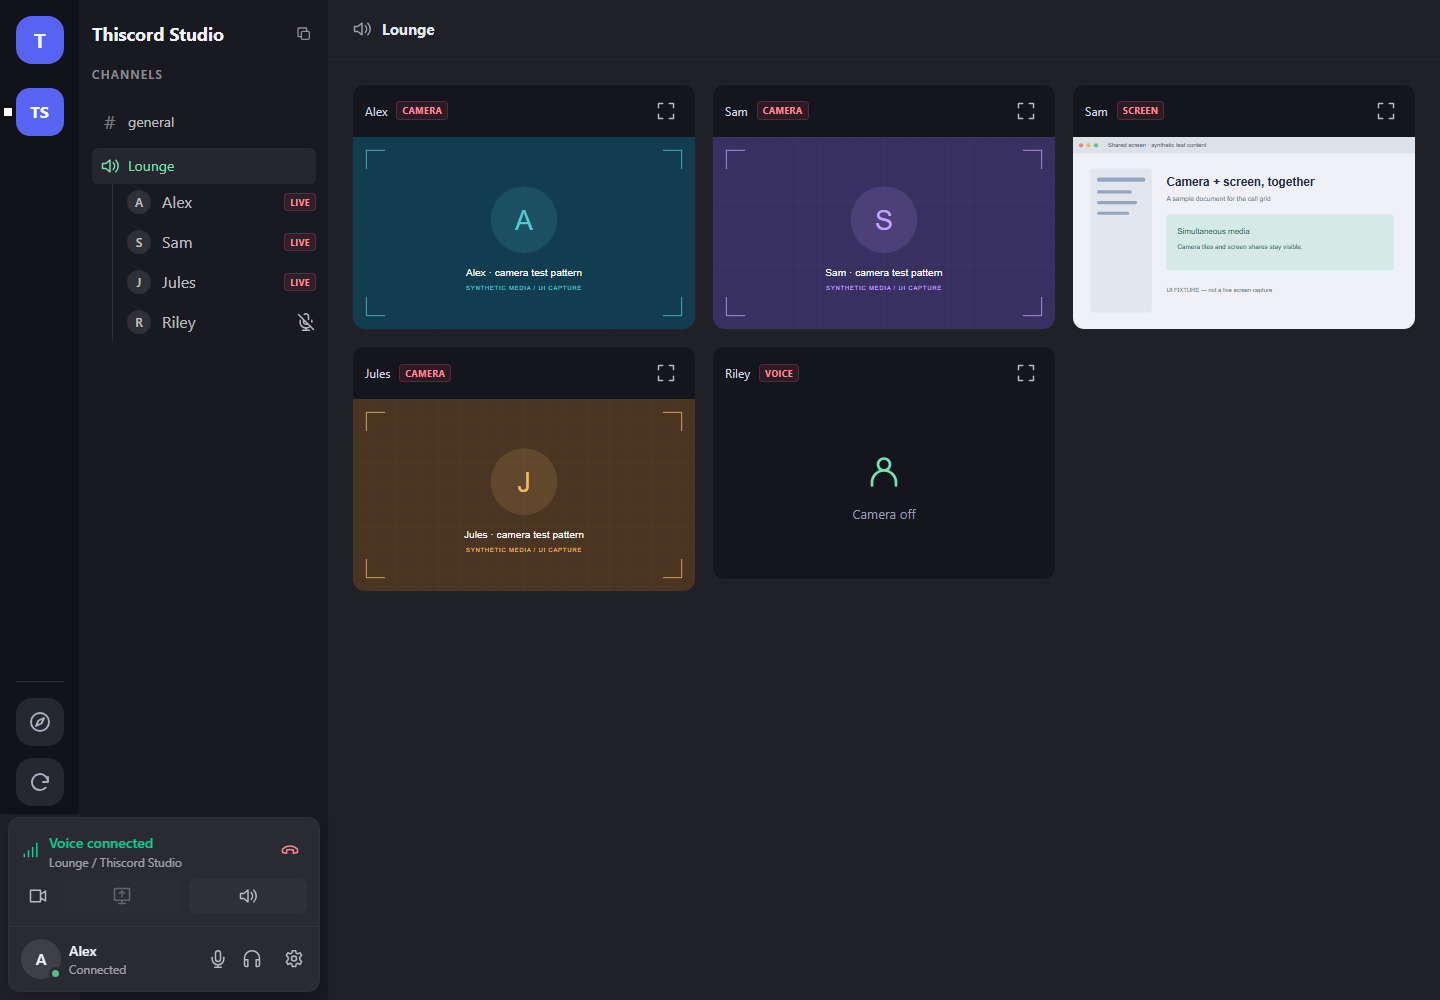
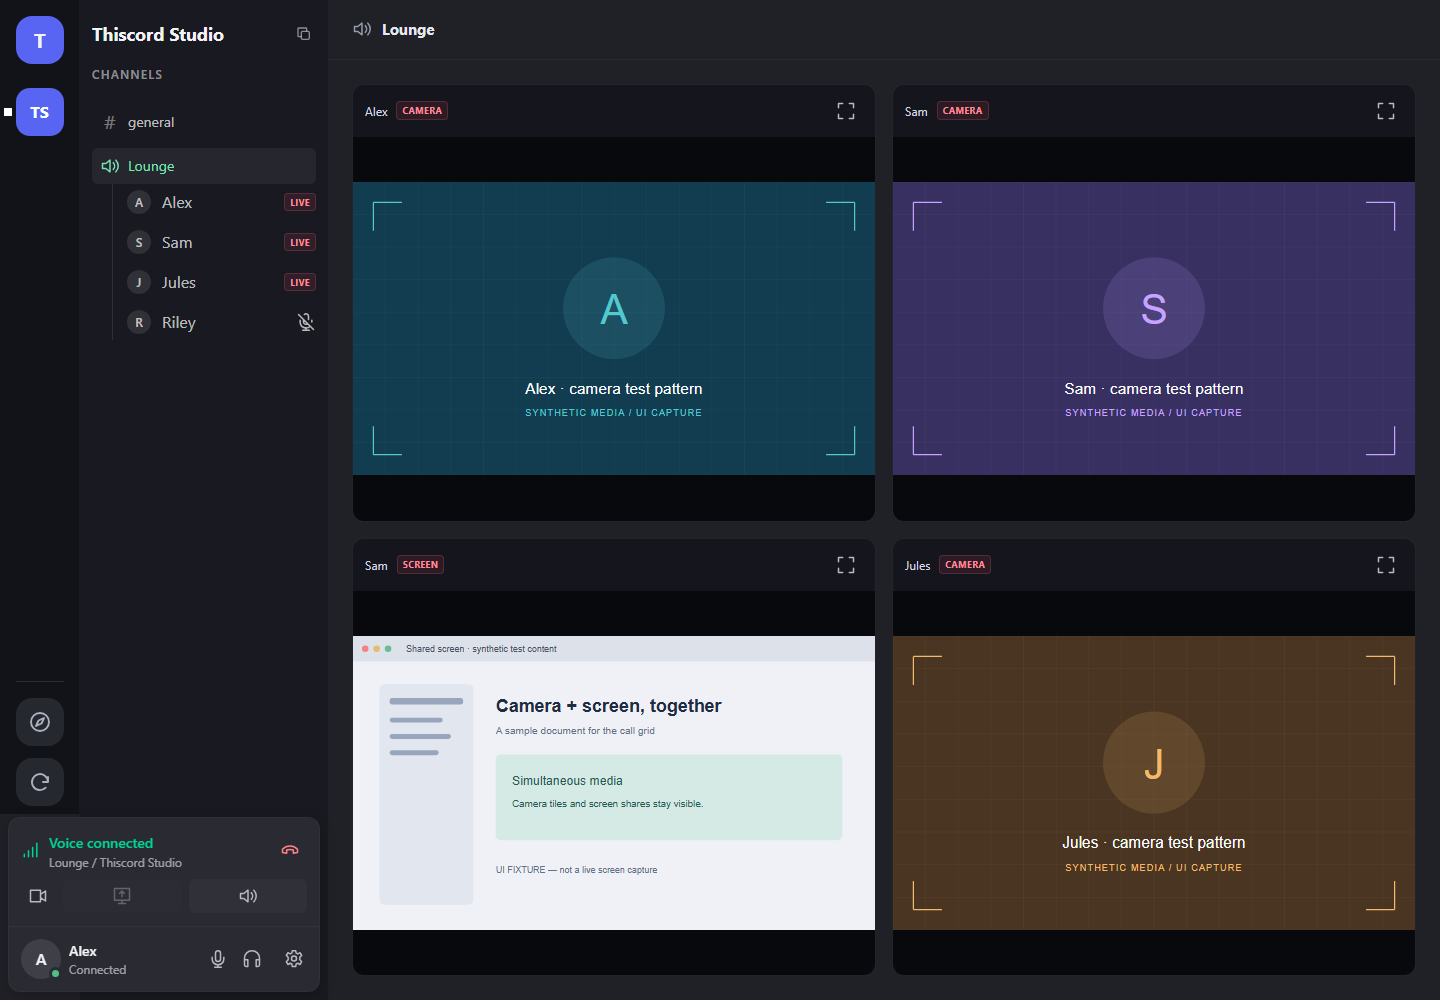
fix: fill call grids with active media only

diff --git a/frontend/style.css b/frontend/style.css
@@ -226,7 +226,11 @@ button.stream-live-badge:hover { background: #ef466540; }
 .voice-channel-view { display: flex; flex-direction: column; min-width: 0; min-height: 0; overflow: auto; background: #202127; }
 .voice-channel-header { display: flex; align-items: center; gap: 10px; padding: 18px 24px; border-bottom: 1px solid #ffffff0a; color: #969cad; }
 .voice-channel-header h2 { color: #e6e8f0; font-size: 15px; font-weight: 650; }
-.channel-streams { flex: 1; padding: 24px; min-width: 0; }
+.channel-streams { display: flex; flex-direction: column; gap: 16px; flex: 1; padding: 24px; min-width: 0; min-height: 0; container-type: inline-size; }
+.channel-streams > .stream-choice { align-self: flex-start; flex-shrink: 0; }
+.channel-streams > .voice-channel-empty { flex: 1; }
+/* Fixed-position fullscreen fallback must use the viewport, not query containment. */
+.channel-streams:has(.expanded) { container-type: normal; }
 .voice-channel-empty { display: flex; flex-direction: column; align-items: center; justify-content: center; gap: 12px; min-height: 340px; text-align: center; color: #959bab; font-size: 13px; }
 .voice-empty-icon { display: grid; place-items: center; width: 68px; height: 68px; margin-bottom: 6px; border: 1px solid #ffffff0a; border-radius: 22px; background: #ffffff04; color: #8994bc; }
 .voice-empty-icon svg { width: 30px; height: 30px; }
@@ -315,12 +319,24 @@ button.stream-live-badge:hover { background: #ef466540; }
   .share-quality { grid-template-columns: 1fr; }
 }
 
-.media-grid { display: grid; grid-template-columns: repeat(auto-fit, minmax(min(100%, 280px), 1fr)); gap: 16px; align-items: start; }
-.media-tile { position: relative; }
-.media-tile-content { cursor: pointer; min-height: 0; flex: 1; }
-.media-tile .stream-placeholder { min-height: 180px; }
+.media-grid { display: grid; flex: 1; min-height: 0; grid-template-columns: repeat(var(--media-columns, 2), minmax(0, 1fr)); grid-auto-rows: minmax(180px, 1fr); gap: 16px; }
+.media-grid:empty { display: none; }
+.media-grid:has(> :nth-child(3):last-child) > :last-child { grid-column: 1 / -1; }
+@container (max-width: 700px) { .media-grid { grid-template-columns: repeat(min(var(--media-columns, 2), 2), minmax(0, 1fr)); } }
+@container (max-width: 420px) { .media-grid { grid-template-columns: minmax(0, 1fr); } }
+.media-tile { position: relative; min-height: 0; }
+.media-tile:has(.media-item-menu) { overflow: visible; z-index: 70; }
+.media-tile-content { position: relative; cursor: pointer; min-height: 0; flex: 1; overflow: hidden; border-radius: 0 0 11px 11px; }
+.media-tile .stream-player { position: absolute; inset: 0; min-height: 0; }
+.media-tile .stream-player video { width: 100%; height: 100%; max-height: none; aspect-ratio: auto; object-fit: contain; }
+.media-tile .stream-placeholder { height: 100%; min-height: 0; }
 .media-tile:fullscreen { width: 100%; height: 100%; border: 0; background: #08090c; }
 .media-tile:fullscreen .stream-player, .media-tile.expanded .stream-player { height: 100%; }
 .media-tile:fullscreen video, .media-tile.expanded video { height: 100%; max-height: calc(100dvh - 52px); }
 .media-item-menu { position: absolute; right: 8px; top: 44px; z-index: 70; width: min(300px, calc(100% - 16px)); padding: 12px; border: 1px solid #ffffff20; border-radius: 12px; background: #20232e; box-shadow: 0 12px 32px #0008; }
-.private-call-media { flex: 0 1 auto; max-height: 65dvh; overflow: auto; border-bottom: 1px solid #ffffff15; }
+.private-call-media { display: flex; flex: 0 0 auto; min-height: 0; overflow: auto; border-bottom: 1px solid #ffffff15; }
+.private-call-media:has(.media-tile) { flex: 1; min-height: 200px; }
+.private-call-media .voice-channel-empty { min-height: 100px; }
+.private-call-media:has(.media-tile) ~ .private-messages { flex: 0 1 auto; max-height: 25%; }
+.private-call-media:has(.media-tile) ~ .private-messages:has(.private-empty) { padding-block: 0; }
+.private-call-media:has(.media-tile) ~ .private-messages .private-empty { display: none; }

diff --git a/frontend/src/app/screen.rs b/frontend/src/app/screen.rs
@@ -223,11 +223,15 @@ pub(super) fn ScreenViewer(ui: Ui, guild: GuildId, channel: ChannelId) -> impl I
                 if m.sharing_screen {
                     tiles.push((m.clone(), MediaKind::ScreenVideo, m.screen_epoch));
                 }
-                if !m.camera_active && !m.sharing_screen {
-                    tiles.push((m, MediaKind::Microphone, 0));
-                }
                 tiles
             })
+            .collect::<Vec<_>>()
+    });
+    let visible = Memo::new(move |_| {
+        tiles
+            .get()
+            .into_iter()
+            .filter(|(m, kind, epoch)| !hidden.get().contains(&(m.account_id, *kind, *epoch)))
             .collect::<Vec<_>>()
     });
     let escape = window_event_listener(leptos::ev::keydown, move |e| {
@@ -266,9 +270,14 @@ pub(super) fn ScreenViewer(ui: Ui, guild: GuildId, channel: ChannelId) -> impl I
     });
     view! {<div class="channel-streams">
         <Show when=move ||!hidden.get().is_empty()><button class="stream-choice" on:click=move |_|hidden.set(vec![])>"Show hidden items"</button></Show>
-        <Show when=move ||tiles.get().is_empty()><p class="voice-channel-empty">"Join this call to see cameras and screen shares."</p></Show>
-        <div class="media-grid">
-        <For each=move ||{tiles.get().into_iter().filter(|(m,k,e)|!hidden.get().contains(&(m.account_id,*k,*e))).collect::<Vec<_>>()} key=|(m,k,e)|(m.account_id,m.slot,*k,*e) children=move |(member,kind,epoch)| {
+        <Show when=move ||visible.get().is_empty()><p class="voice-channel-empty">{move || {
+            let voice = ui.voice.get();
+            if !voice.connected || voice.channel_id != Some(channel) { "Join this call to see cameras and screen shares." }
+            else if !tiles.get().is_empty() { "All media is hidden. Choose Show hidden items to restore it." }
+            else { "No cameras or screen shares are active." }
+        }}</p></Show>
+        <div class="media-grid" style:--media-columns=move ||match visible.get().len() {0|1=>"1",2..=4=>"2",5..=9=>"3",_=>"4"}>
+        <For each=move ||visible.get() key=|(m,k,e)|(m.account_id,m.slot,*k,*e) children=move |(member,kind,epoch)| {
             let owner=member.account_id;
             let key=(owner,kind,epoch);
             let own=ui.account.get_untracked().is_some_and(|a|a.id==owner);
@@ -280,13 +289,12 @@ pub(super) fn ScreenViewer(ui: Ui, guild: GuildId, channel: ChannelId) -> impl I
             };
             view!{<figure node_ref=figure class="stream-view media-tile" class:expanded=move ||expanded.get()==Some(key)
                 on:contextmenu=move |e|{e.prevent_default();e.stop_propagation();ui.context_menu.set(None);menu.set(Some(key));}>
-                <figcaption class="stream-toolbar"><button class="stream-title" on:click=move |_|full()>{member.display_name().to_owned()}<span class="stream-live-badge">{match kind {MediaKind::Camera=>"CAMERA",MediaKind::ScreenVideo=>"SCREEN",_=>"VOICE"}}</span></button>
+                <figcaption class="stream-toolbar"><button class="stream-title" on:click=move |_|full()>{member.display_name().to_owned()}<span class="stream-live-badge">{if kind==MediaKind::Camera {"CAMERA"} else {"SCREEN"}}</span></button>
                     <button class="icon-button" aria-label="Toggle fullscreen" on:click=move |_|full()><Icon kind=Glyph::Expand/></button>
                 </figcaption>
                 <div class="media-tile-content" role="button" tabindex="0" aria-label="View fullscreen" on:click=move |_|full() on:keydown=move |e|{if e.key()=="Enter" || e.key()==" "{e.prevent_default();full();}}>
                     <Show when=move ||!ui.audio.get().deafened fallback=||view!{<div class="stream-placeholder">"Undeafen to view media"</div>}>
-                        {if kind==MediaKind::Microphone {view!{<div class="stream-placeholder"><Icon kind=Glyph::Person/>"Camera off"</div>}.into_any()}
-                        else if own && kind==MediaKind::Camera {view!{<super::camera::LocalCamera/>}.into_any()}
+                        {if own && kind==MediaKind::Camera {view!{<super::camera::LocalCamera/>}.into_any()}
 
                         else {view!{<ScreenVideo watch=watch/>}.into_any()}}
                     </Show>

diff --git a/frontend/src/app/friends.rs b/frontend/src/app/friends.rs
@@ -519,14 +519,14 @@ fn Conversation(ui: Ui, id: ConversationId) -> impl IntoView {
         <For each=move ||{ui.friends.snapshot.get().calls.into_iter().filter(|c|c.conversation_id==id && ui.voice.get().connected && ui.voice.get().channel_id==Some(c.voice_channel())).collect::<Vec<_>>()} key=|c|c.id children=move |call|view!{
             <div class="private-call-media"><super::screen::ScreenViewer ui=ui guild=call.voice_scope() channel=call.voice_channel()/></div>
         }/>
-        <div node_ref=list class="min-h-0 flex-1 overflow-y-auto px-6 py-4" on:scroll=move |_|if let Some(node)=list.get(){bottom.set(node.scroll_height()-node.scroll_top()-node.client_height()<80);}>
+        <div node_ref=list class="private-messages min-h-0 flex-1 overflow-y-auto px-6 py-4" on:scroll=move |_|if let Some(node)=list.get(){bottom.set(node.scroll_height()-node.scroll_top()-node.client_height()<80);}>
             <Show when=move ||older.get().is_some()><button class="mb-4 text-sm text-brand disabled:opacity-50" disabled=move ||loading.get() on:click=move |_| {
                 let before=older.get_untracked();if loading.get_untracked(){return;}loading.set(true);
 
                 leptos::task::spawn_local(async move {let result=request(ui,&Request::History {conversation_id:id,before,limit:Default::default()}).await;if loading.is_disposed(){return;}loading.set(false);match result {Ok(Response::History {history})=>{past.set(true);older.set(history.older);messages.set(history.messages);request_animation_frame(move ||if let Some(n)=list.get_untracked(){n.set_scroll_top(0);});},Err(e)=>error.set(e),_=>{}}});
             }>{move ||if loading.get(){"Loading…"}else{"Older messages"}}</button></Show>
             <Show when=move ||past.get()><button class="mb-4 ml-4 text-sm text-brand" on:click=move |_|{bottom.set(true);past.set(false);}>"Jump to latest"</button></Show>
-            <Show when=move ||messages.get().is_empty()><div class="py-12 text-center"><h3 class="text-xl font-semibold">"Start a conversation"</h3><p class="mt-2 text-sm text-white/45">"Only you and your friend can access this conversation."</p></div></Show>
+            <Show when=move ||messages.get().is_empty()><div class="private-empty py-12 text-center"><h3 class="text-xl font-semibold">"Start a conversation"</h3><p class="mt-2 text-sm text-white/45">"Only you and your friend can access this conversation."</p></div></Show>
             <ol class="space-y-5" aria-label="Private messages"><For each=move ||messages.get() key=|m|m.id children=move |m| {
                 let own=ui.account.get_untracked().is_some_and(|a|a.id==m.author_id);
                 view!{<li><div class="flex items-baseline gap-3"><strong class="text-sm">{if own {"You".into()}else{friend.get_untracked().map(|f|f.person.display_name).unwrap_or_else(||"Friend".into())}}</strong><time class="text-xs text-white/35" datetime=m.created_at.to_rfc3339()>{m.created_at.format("%b %d, %H:%M UTC").to_string()}</time></div><p class="mt-1 whitespace-pre-wrap break-words text-white/85">{m.content}</p></li>}

diff --git a/frontend/src/app/audio.rs b/frontend/src/app/audio.rs
@@ -19,6 +19,11 @@ pub(super) fn join(
     guild: thiscord_shared::permissions::Guild,
     channel: thiscord_shared::permissions::Channel,
 ) {
+    if ui.voice.get_untracked().channel_id == Some(channel.id) {
+        ui.selected_channel.set(Some(channel));
+        ui.page.set("servers");
+        return;
+    }
     super::friends::end_call(ui);
     join_location(
         ui,

diff --git a/docs/cameras.md b/docs/cameras.md
@@ -9,6 +9,11 @@ Camera choice currently follows the system default; an in-app device selector is
 not implemented.
 
 Cameras and screen shares appear together in a grid, including local previews.
+Only active media gets a tile; voice-only participants remain in the sidebar.
+The grid fills the available call area and adapts its columns to the tile count
+and window width. Clicking your connected voice channel opens its room view
+without reconnecting. Private-call grids use the space above the message composer,
+with existing messages kept in a smaller scrollable area.
 Click a tile for fullscreen; Escape restores the grid. Right-click to hide an
 item or change the participant's voice/shared-screen audio levels. Hiding a
 remote tile unsubscribes its media; hiding your own tile keeps publishing. Use

diff --git a/README.md b/README.md
@@ -34,6 +34,7 @@ during calls with the channel/server name, camera, screen sharing and disconnect
 Sidebar controls show immediate hover/focus hints
 outside the scroll area. Visible voice channels show participants before joining;
 clicking a voice channel joins directly while keeping the current text chat open.
+Clicking that channel again opens its voice room without reconnecting.
 Hover **Voice connected** for brief latency, health and drop diagnostics; click
 the channel name in the ribbon to open call controls. Server/channel creation,
 server joining and screen-picker dialogs close when clicking their backdrop.
